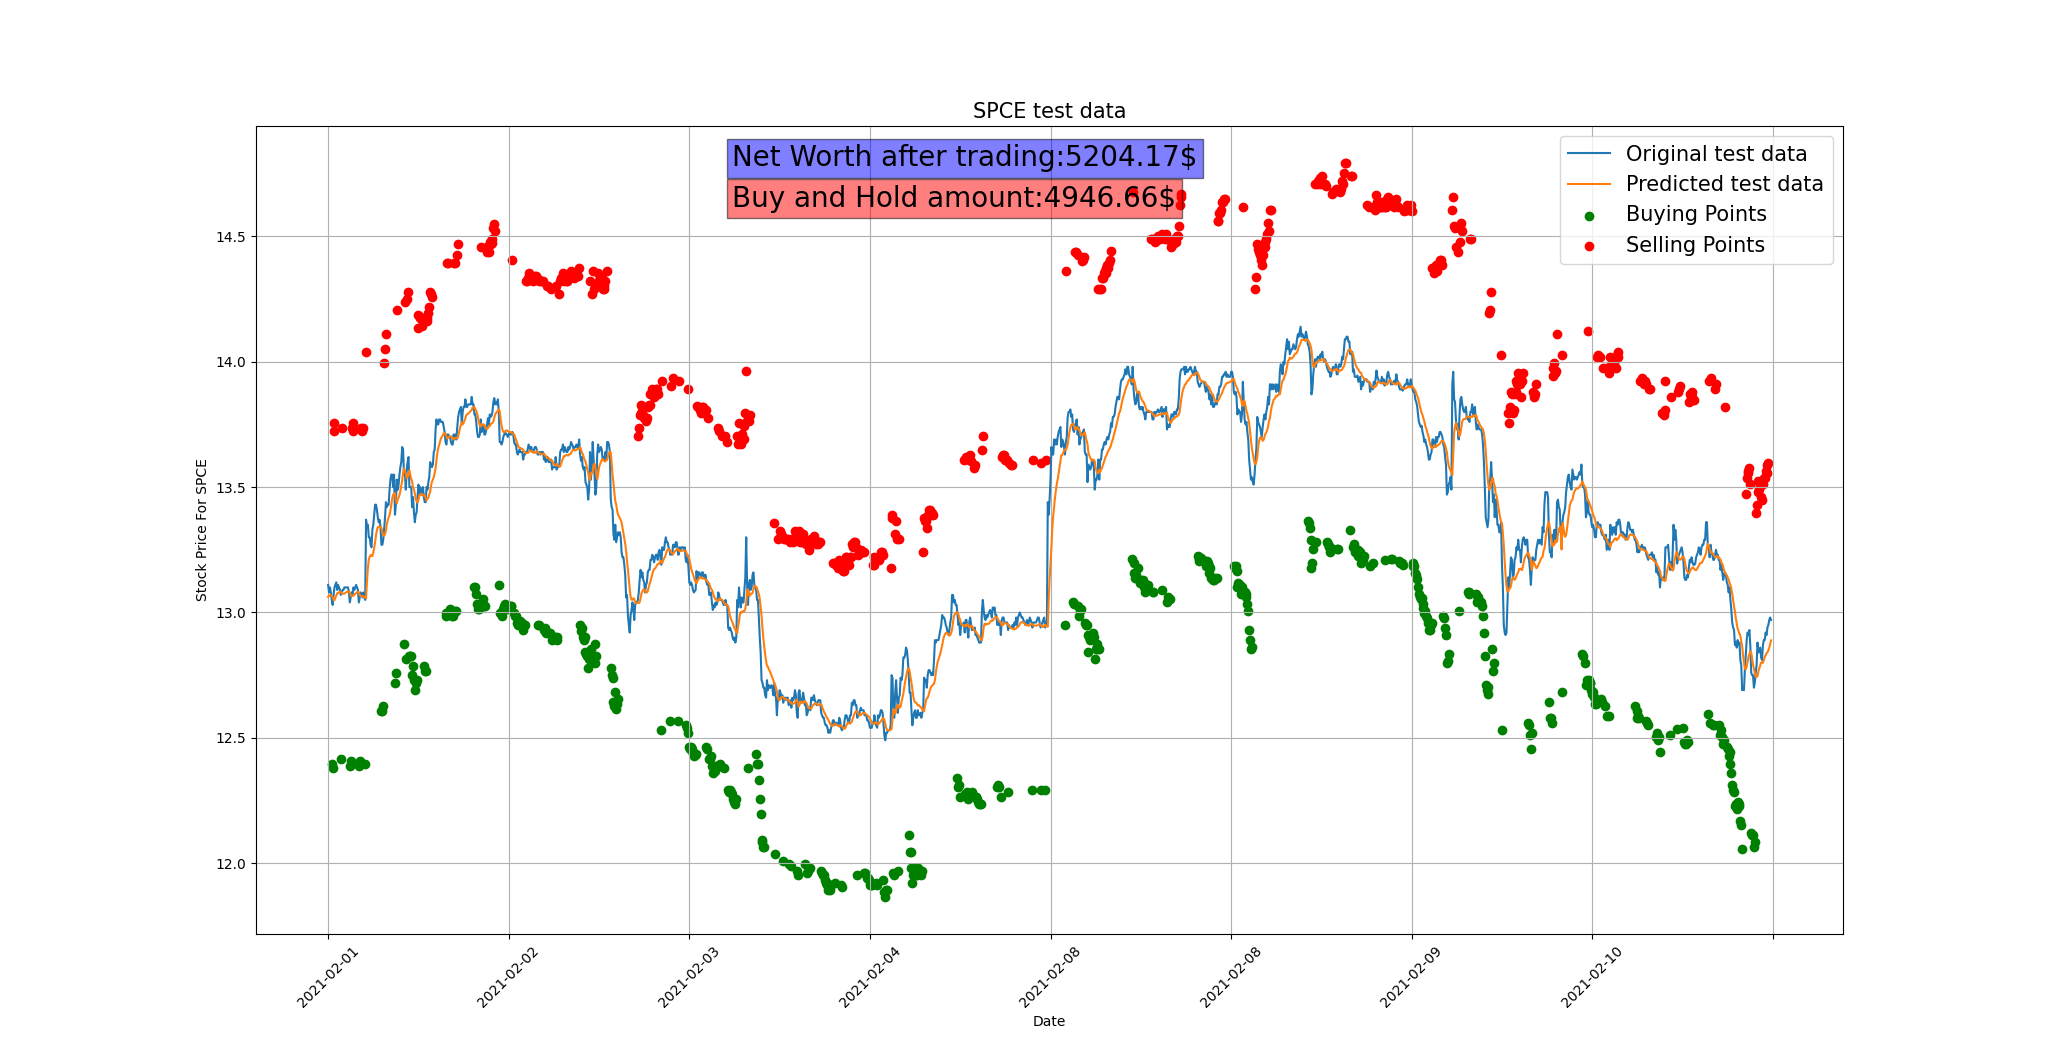
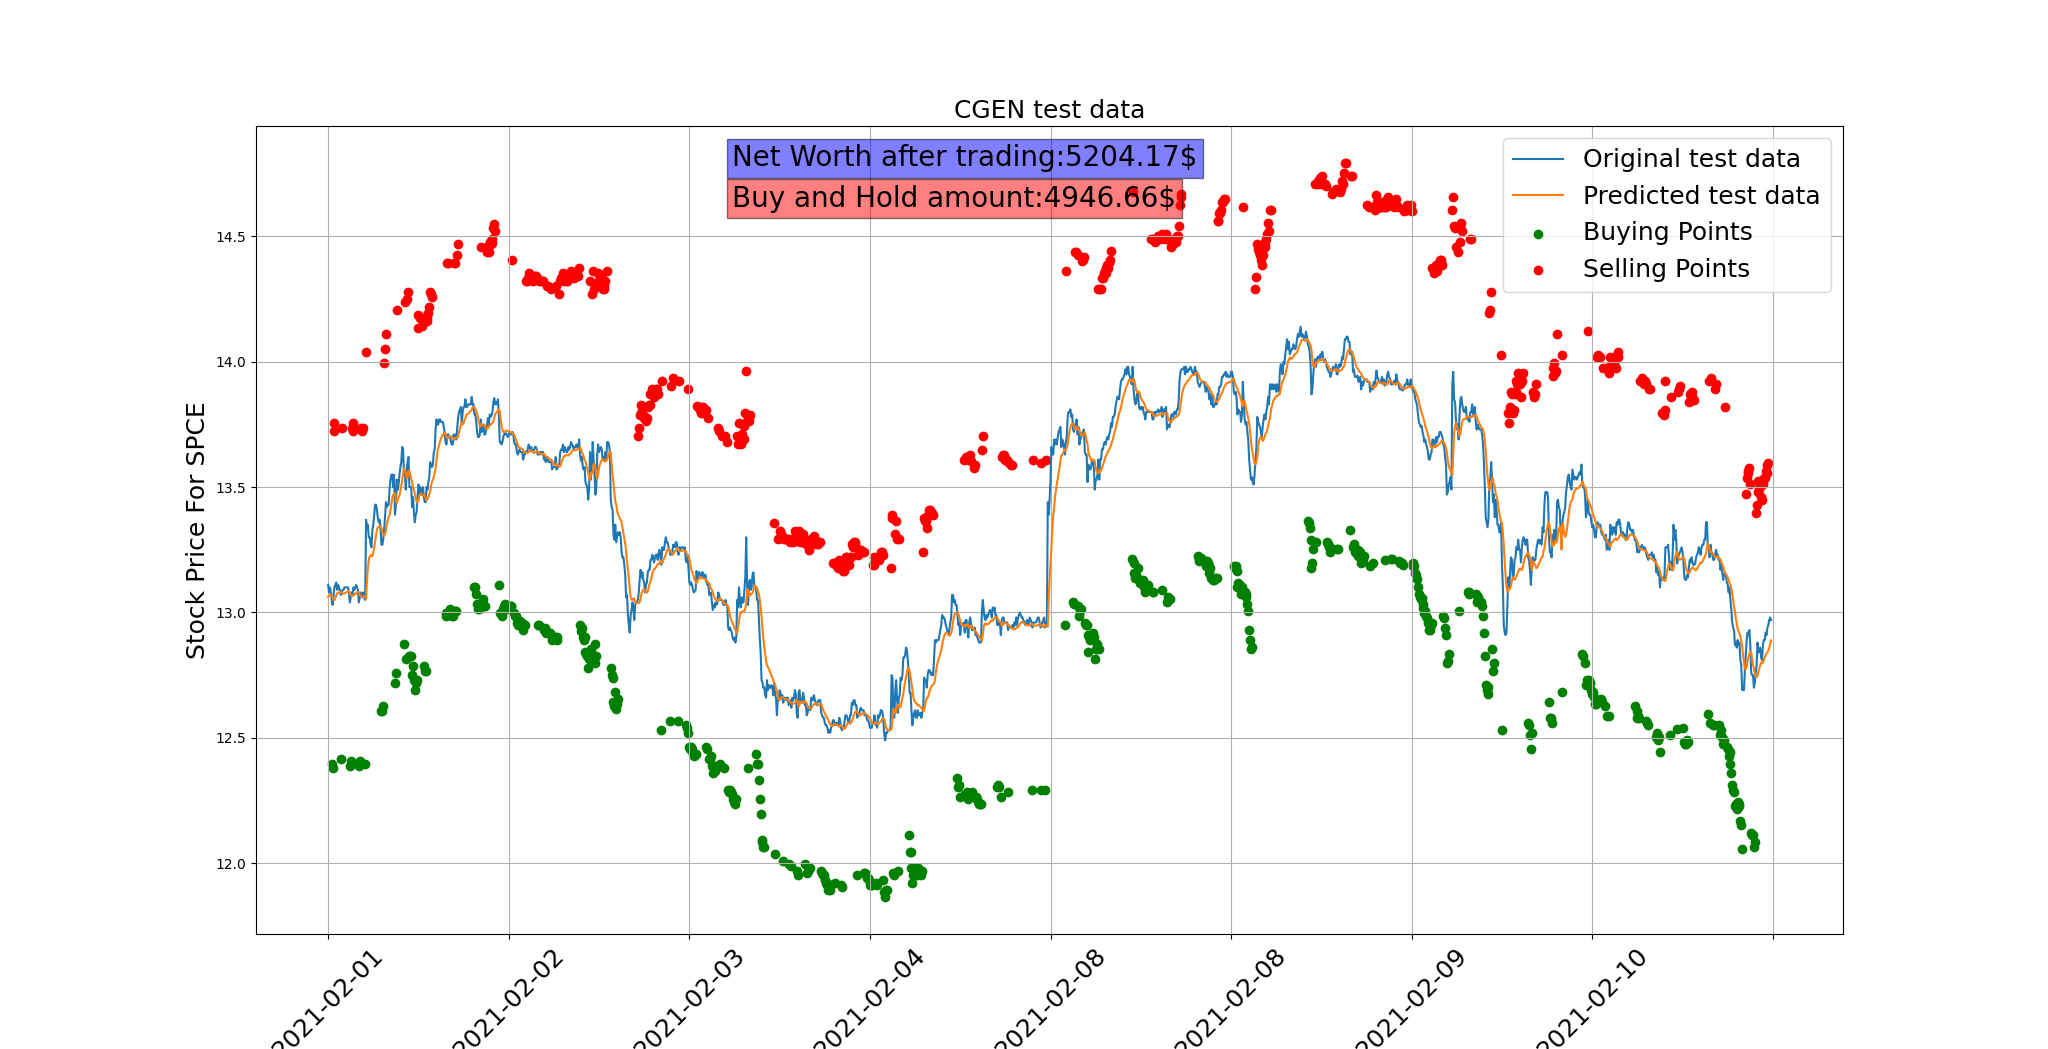
Typo with Stock name and font changes

diff --git a/src/stock_bot.py b/src/stock_bot.py
@@ -114,8 +114,6 @@ def buying_and_selling_plt(orig, pred, threshold_buy, threshold_sell, money_star
     sell_value = sell_value[sell_value > 0]
 
     # buying and selling points
-    plt.plot(orig['Date'].index, test_orig.values, label="Original test data")  # plots the x and y
-    plt.plot(orig['Date'].index, test_pred.values, label="Predicted test data")
     ax = orig.plot(x='Date', y='Price', label="Original test data")
     pred.plot(x='Date', y='Price', label="Predicted test data", ax= ax)
     plt.scatter(buy_idx, buy_value * 0.95, color='green', marker='o', label="Buying Points")
@@ -126,11 +124,11 @@ def buying_and_selling_plt(orig, pred, threshold_buy, threshold_sell, money_star
     plt.grid(True)  # turns on axis grid
     # plt.ylim(0)  # sets the y axis min to zero
     # plt.xlim(0, 100)  # sets the y axis min to zero
-    plt.xticks(rotation=45, fontsize=10)  # rotates the x axis ticks 90 degress and font size 10
-    plt.title('SPCE test data', fontsize=15)  # prints the title on the top
-    plt.ylabel('Stock Price For SPCE',fontsize=10)  # labels y axis
+    plt.xticks(rotation=45, fontsize=18)  # rotates the x axis ticks 90 degress and font size 10
+    plt.title('CGEN test data', fontsize=18)  # prints the title on the top
+    plt.ylabel('Stock Price For SPCE',fontsize=18)  # labels y axis
     plt.xlabel('Date')  # labels x axis
-    plt.legend(fontsize=15)
+    plt.legend(fontsize=18)
     plt.show()
 
 ## includes animation
@@ -168,33 +166,33 @@ def money_over_time_plt(orig, pred, threshold_buy, threshold_sell, money_start):
     plt.subplots_adjust(left=left, bottom=bottom, right=right, top=top, wspace=wspace, hspace=hspace)
 
 
-    ax1.set_title('Money over time',  fontsize=15)
-    ax1.set_xlabel('Minutes', fontsize=15)
-    ax1.set_ylabel('Net worth in $', fontsize=15)
+    ax1.set_title('Money over time',  fontsize=18)
+    ax1.set_xlabel('Minutes', fontsize=18)
+    ax1.set_ylabel('Net worth in $', fontsize=18)
     ax1_text = ax1.text(0.3, 0.5, '', transform=ax1.transAxes, size=20, bbox=dict(facecolor='red', alpha=0.3))
 
-    ax2.set_title('Stock over time', fontsize=15)
-    ax2.set_xlabel('Minutes', fontsize=15)
-    ax2.set_ylabel('Stock Value in $', fontsize=15)
+    ax2.set_title('Stock over time', fontsize=18)
+    ax2.set_xlabel('Minutes', fontsize=18)
+    ax2.set_ylabel('Stock Value in $', fontsize=18)
     ax2_text = ax2.text(0.3, -0.8, '', transform=ax1.transAxes, size=20, bbox=dict(facecolor='red', alpha=0.3))
 
     # updating each frame of money
     def update_money(i=int):
-        ax1.legend(["net worth"],fontsize=15)
+        ax1.legend(["net worth"],fontsize=18)
         plt.sca(ax1)
         ax1_text.set_text("Current Net worth:" + "%.2f" % bot_df['Money'][i])
         # ax1.scatter(buy_idx[:i], buy_value[:i] , color='green', marker='o', label="Buying Points")
         # ax1.scatter(sell_idx[:i], sell_value[:i] , color='red', marker='o', label="Selling Points")
-        plt.xticks(rotation=45, fontsize=15)  # rotates the x axis ticks 90 degress and font size 10
+        plt.xticks(rotation=45, fontsize=18)  # rotates the x axis ticks 90 degress and font size 18
         p = ax1.plot(bot_df['Date'].index[:i], bot_df['Money'][:i].values)  # note it only returns the dataset, up to the point i
         p[0].set_color('r')  # set the colour of each curve
 
     # updating each frame of stock value
     def update_stock(i=int):
-        ax2.legend(["Stock Value"],fontsize=15)
+        ax2.legend(["Stock Value"],fontsize=18)
         plt.sca(ax2)
         ax2_text.set_text("Current Stock Value:" + "%.2f" % bot_df['Stock'][i])
-        plt.xticks(rotation=45, fontsize=15)  # rotates the x axis ticks 90 degress and font size 10
+        plt.xticks(rotation=45, fontsize=18)  # rotates the x axis ticks 90 degress and font size 18
         p = ax2.plot(bot_df['Stock'][:i].index,  bot_df['Stock'][:i].values)  # note it only returns the dataset, up to the point i
 
         p[0].set_color('b')  # set the colour of each curve
@@ -206,7 +204,7 @@ def money_over_time_plt(orig, pred, threshold_buy, threshold_sell, money_start):
         update_stock(i)
 
     # for faster animation we show every 20 frame
-    show_every_x_frams = 20
+    show_every_x_frams = 40
     frames = np.arange(0, len(bot_df)+ 1, show_every_x_frams)
     last_frame = frames[len(frames) - 1 ]
     animator = ani.FuncAnimation(fig, update_all, frames=frames , interval=40, repeat=False, blit=False)
@@ -307,17 +305,17 @@ def money_for_threshold(orig, pred, money_start):
     plt.show()
 
 
-with open('SPCE_original.pkl', 'rb') as file:
-    SPCE_original = pickle.load(file)
-with open('SPCE_predict.pkl', 'rb') as file:
-    SPCE_predict = pickle.load(file)
+with open('../data/CGEN_original.pkl', 'rb') as file:
+    CGEN_original = pickle.load(file)
+with open('../data/CGEN_predict.pkl', 'rb') as file:
+    CGEN_predict = pickle.load(file)
 
-SPCE_original = SPCE_original[100:].reset_index()
-SPCE_predict = SPCE_predict[100:].reset_index()
+CGEN_original = CGEN_original[100:].reset_index()
+CGEN_predict = CGEN_predict[100:].reset_index()
 money_start = 5000
 threshold_buy = 0.0015
 threshold_sell = 0.0015
-buying_and_selling_plt(SPCE_original, SPCE_predict, threshold_buy, threshold_sell, money_start)
-outcome_of_transactions_plt(SPCE_original, SPCE_predict, threshold_buy, threshold_sell, money_start)
-money_over_time_plt(SPCE_original, SPCE_predict, threshold_buy, threshold_sell, money_start)
-money_for_threshold(SPCE_original, SPCE_predict, money_start)
+buying_and_selling_plt(CGEN_original, CGEN_predict, threshold_buy, threshold_sell, money_start)
+outcome_of_transactions_plt(CGEN_original, CGEN_predict, threshold_buy, threshold_sell, money_start)
+money_over_time_plt(CGEN_original, CGEN_predict, threshold_buy, threshold_sell, money_start)
+money_for_threshold(CGEN_original, CGEN_predict, money_start)
